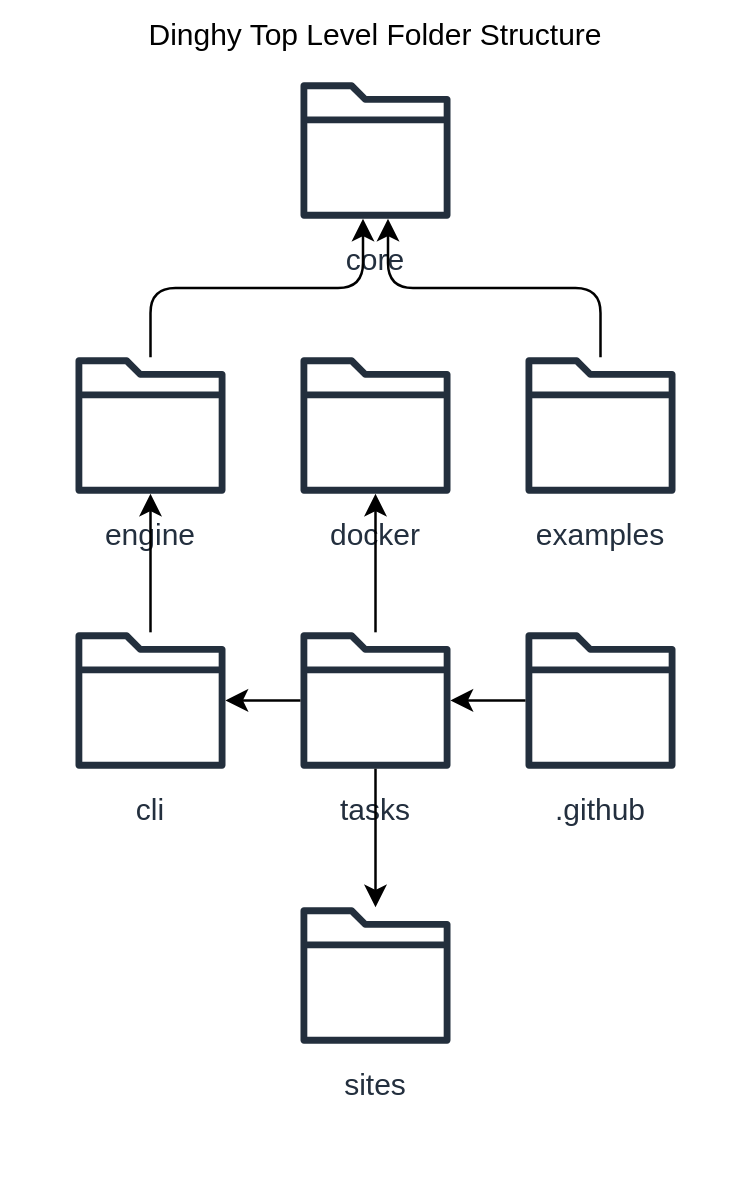
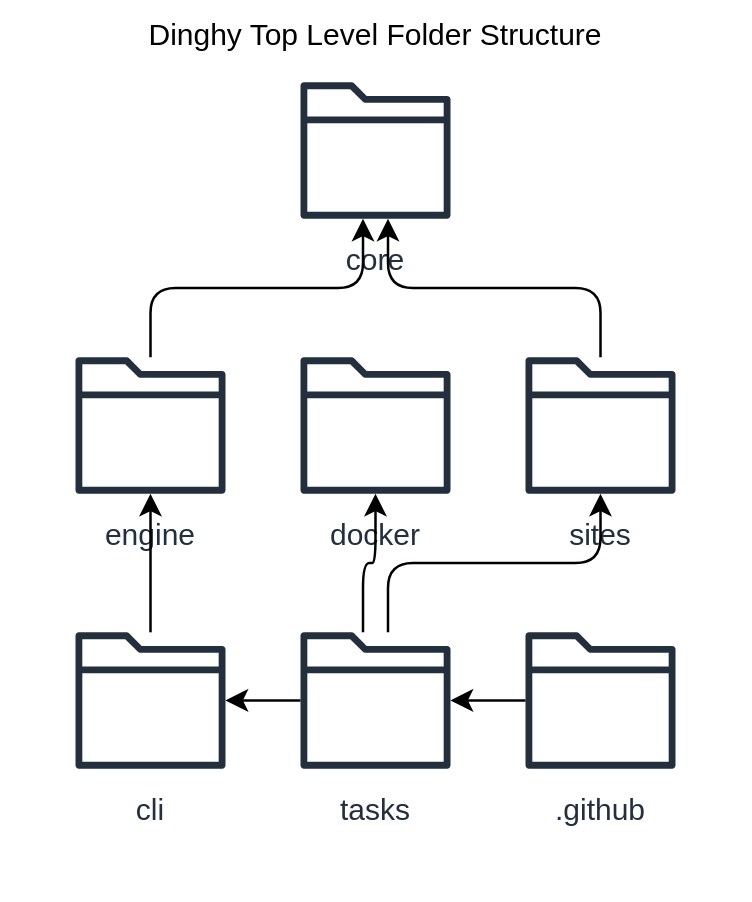
Use S3Bucket for CloudfrontSites

Changed region(s): [[0.0918, 0.0, 0.9176, 0.9313], [0.3976, 0.8381, 0.6117, 0.9313]]

diff --git a/core/tf-aws/src/composites/cloudfront-sites/CloudfrontSites.tsx b/core/tf-aws/src/composites/cloudfront-sites/CloudfrontSites.tsx
@@ -1,27 +1,14 @@
 import { OriginType, useCloudfrontSites } from './useCloudfrontSites.ts'
-import { existsSync } from '@std/fs/exists'
-import { walkSync } from '@std/fs/walk'
-import { contentType } from '@std/media-types'
-import {
-  containerAppHome,
-  deepResolve,
-  NodeProps,
-  Shape,
-  toId,
-} from '@dinghy/base-components'
+import { S3Bucket } from '../s3-bucket/S3Bucket.tsx'
+import { deepResolve, NodeProps, Shape, toId } from '@dinghy/base-components'
 import {
   AwsRoute53Record,
   DataAwsRoute53Zone,
   useAwsRoute53Zone,
 } from '@dinghy/tf-aws/serviceRoute53'
 import { CloudfrontSiteType } from './useCloudfrontSites.ts'
-import {
-  AwsS3Bucket,
-  AwsS3BucketLogging,
-  AwsS3BucketPolicy,
-  useAwsS3Bucket,
-} from '@dinghy/tf-aws/serviceS3'
-import { useGlobalLogBucket, useRegionalLogBucket } from '@dinghy/tf-aws'
+import { useAwsS3Bucket } from '@dinghy/tf-aws/serviceS3'
+import { useGlobalLogBucket } from '@dinghy/tf-aws'
 import {
   AwsCloudfrontDistribution,
   AwsCloudfrontFunction,
@@ -35,12 +22,6 @@ import {
   useAwsAcmCertificate,
 } from '@dinghy/tf-aws/serviceAcm'
 import { Text } from '@dinghy/diagrams/entitiesGeneral'
-import { AwsS3Object } from '../../services/s3/AwsS3Object.tsx'
-
-function getContentType(filePath: string): string {
-  const extension = filePath.split('.').pop()?.toLowerCase() || ''
-  return contentType(`.${extension}`) || 'application/octet-stream'
-}
 
 export function CloudfrontSites(
   { _components, ...props }: NodeProps,
@@ -48,7 +29,6 @@ export function CloudfrontSites(
   const sites = useCloudfrontSites(props.sites)
 
   function CloudfrontSite({ site }: { site: CloudfrontSiteType }) {
-    const { logBucket } = useRegionalLogBucket()
     const redirectFunctionId = `${toId(`${site.title}_redirect_function`)}`
 
     const domainNameZone = (name: string) => {
@@ -317,102 +297,41 @@ export function CloudfrontSites(
         const origins = site.origins
 
         const S3Origin = ({ origin }: { origin: OriginType }) => {
-          const originFiles =
-            `${containerAppHome}/s3-files/${origin.targetHost}`
-          const originFilesExists = existsSync(originFiles)
-          const Files = () => {
-            const files = []
-            for (
-              const entry of walkSync(originFiles, { includeDirs: false })
-            ) {
-              const target = entry.path.replace(originFiles, '')
-              files.push({
-                source: entry.path,
-                target,
-                contentType: origin.contentTypes[target] ||
-                  getContentType(target),
-              })
-            }
-
-            const { s3Bucket } = useAwsS3Bucket()
-            const S3FilesComponent = _components?.s3Files as typeof Shape ||
-              Shape
-            const S3ObjectComponent =
-              _components?.s3Object as typeof AwsS3Object || AwsS3Object
-            return (
-              <S3FilesComponent _direction='vertical'>
-                {files
-                  .sort((a, b) => a.target.localeCompare(b.target))
-                  .map((file) => (
-                    <S3ObjectComponent
-                      _id={toId(`${site.title}_${origin.name}_${file.target}`)}
-                      _title={file.target}
-                      bucket={origin.targetHost}
-                      key={file.target}
-                      __key={file.target}
-                      cache_control={origin.cacheControls[file.target] ||
-                        origin.cacheControlDefault}
-                      content_type={file.contentType}
-                      source={file.source}
-                      depends_on={() => [s3Bucket._terraformId]}
-                    />
-                  ))}
-              </S3FilesComponent>
-            )
-          }
-
           const { cloudfrontDistribution } = useAwsCloudfrontDistribution()
-          const S3OriginComponent =
-            _components?.s3Origin as typeof AwsS3Bucket || AwsS3Bucket
-          const S3OriginLoggingComponent =
-            _components?.s3OriginLogging as typeof AwsS3BucketLogging ||
-            AwsS3BucketLogging
-          const S3OriginPolicyComponent =
-            _components?.s3OriginPolicy as typeof AwsS3BucketPolicy ||
-            AwsS3BucketPolicy
+          const S3OriginComponent = _components?.s3Origin as typeof S3Bucket ||
+            S3Bucket
           return (
             <S3OriginComponent
               _id={toId(`${site.title}_${origin.name}_bucket`)}
               _title={`Origin Bucket: ${site.title} ${origin.name}`}
               bucket={origin.targetHost}
               _display='none'
-              _direction='vertical'
               _distributed
-            >
-              <S3OriginLoggingComponent
-                _id={toId(`${site.title}_${origin.name}_bucketlogging`)}
-                bucket={origin.targetHost}
-                target_bucket={logBucket.bucket}
-                target_prefix={`s3-access-log/${origin.targetHost}/`}
-              />
-
-              <S3OriginPolicyComponent
-                _id={toId(`${site.title}_${origin.name}_bucketpolicy`)}
-                bucket={origin.targetHost}
-                policy={() =>
-                  JSON.stringify(deepResolve({
-                    'Version': '2008-10-17',
-                    'Id': 'PolicyForCloudFrontPrivateContent',
-                    'Statement': [
-                      {
-                        'Sid': 'AllowCloudFrontServicePrincipal',
-                        'Effect': 'Allow',
-                        'Principal': {
-                          'Service': 'cloudfront.amazonaws.com',
-                        },
-                        'Action': 's3:GetObject',
-                        'Resource': `arn:aws:s3:::${origin.targetHost}/*`,
-                        'Condition': {
-                          'ArnLike': {
-                            'AWS:SourceArn': [cloudfrontDistribution.arn],
-                          },
+              loggingEnabled
+              bucketPolicy={() =>
+                JSON.stringify(deepResolve({
+                  'Version': '2008-10-17',
+                  'Id': 'PolicyForCloudFrontPrivateContent',
+                  'Statement': [
+                    {
+                      'Sid': 'AllowCloudFrontServicePrincipal',
+                      'Effect': 'Allow',
+                      'Principal': {
+                        'Service': 'cloudfront.amazonaws.com',
+                      },
+                      'Action': 's3:GetObject',
+                      'Resource': `arn:aws:s3:::${origin.targetHost}/*`,
+                      'Condition': {
+                        'ArnLike': {
+                          'AWS:SourceArn': [cloudfrontDistribution.arn],
                         },
                       },
-                    ],
-                  }))}
-              />
-              {originFilesExists && <Files />}
-            </S3OriginComponent>
+                    },
+                  ],
+                }))}
+              _components={_components}
+              {...origin}
+            />
           )
         }
 

diff --git a/core/tf-aws/src/composites/s3-bucket/S3Bucket.tsx b/core/tf-aws/src/composites/s3-bucket/S3Bucket.tsx
@@ -1,8 +1,13 @@
 import {
+  containerAppHome,
+  deepMerge,
   deepResolve,
+  getRenderOptions,
   type NodeProps,
   ResolvableBooleanSchema,
   ResolvableStringSchema,
+  Shape,
+  toId,
 } from '@dinghy/base-components'
 import z from 'zod'
 import {
@@ -12,12 +17,29 @@ import {
 } from '../../services/s3/AwsS3Bucket.tsx'
 import { AwsS3BucketVersioning } from '../../services/s3/AwsS3BucketVersioning.tsx'
 import { AwsS3BucketLogging } from '../../services/s3/AwsS3BucketLogging.tsx'
+import { existsSync } from '@std/fs/exists'
+import { walkSync } from '@std/fs/walk'
+import { AwsS3BucketPolicy, AwsS3Object } from '@dinghy/tf-aws/serviceS3'
+import { contentType } from '@std/media-types'
+import { useRegionalLogBucket } from '@dinghy/tf-aws'
+
+function getContentType(filePath: string): string {
+  const extension = filePath.split('.').pop()?.toLowerCase() || ''
+  return contentType(`.${extension}`) || 'application/octet-stream'
+}
 
 export const InputSchema = z.object({
+  bucket: ResolvableStringSchema,
   versioningEnabled: ResolvableBooleanSchema.default(false),
   loggingEnabled: ResolvableBooleanSchema.default(false),
   logBucket: ResolvableStringSchema.optional(),
   logPrefix: ResolvableStringSchema.optional(),
+  bucketPolicy: ResolvableStringSchema.optional(),
+  contentTypes: z.record(z.string(), z.string()).default({}),
+  cacheControls: z.record(z.string(), z.string()).default({}),
+  cacheControlDefault: z.string().default(
+    'max-age=3600, public, must-revalidate',
+  ),
 }).extend({ ...AwsS3BucketInputSchema.shape })
 
 export type InputProps =
@@ -25,10 +47,12 @@ export type InputProps =
   & NodeProps
 
 export function S3Bucket(
-  { _components, bucket, children, ...props }: Partial<InputProps>,
+  { _components, children, ...props }: Partial<InputProps>,
 ) {
-  const bucketConfig = InputSchema.parse(props)
-
+  const inputProps = deepMerge({}, getRenderOptions().s3Bucket || {})
+  deepMerge(inputProps, props.s3Bucket || {})
+  deepMerge(inputProps, props)
+  const bucketConfig = InputSchema.loose().parse(inputProps)
   const BucketVersioning = () => {
     const { s3Bucket } = useAwsS3Bucket()
     const BucketVersioningComponent: any =
@@ -48,10 +72,11 @@ export function S3Bucket(
     const BucketLoggingComponent: any =
       _components?.logging as typeof AwsS3BucketLogging ||
       AwsS3BucketLogging
+    const { logBucket } = useRegionalLogBucket()
     return (
       <BucketLoggingComponent
         bucket={s3Bucket.bucket}
-        target_bucket={bucketConfig.logBucket || bucketConfig.bucket}
+        target_bucket={bucketConfig.logBucket || logBucket.bucket}
         target_prefix={() => `s3-access-log/${deepResolve(s3Bucket.bucket)}/`}
         _id={() => `${deepResolve(s3Bucket._id)}_logging`}
         depends_on={() => [s3Bucket._terraformId]}
@@ -59,16 +84,78 @@ export function S3Bucket(
     )
   }
 
+  const BucketPolicy = () => {
+    const { s3Bucket } = useAwsS3Bucket()
+    const S3BucketPolicyComponent =
+      _components?.s3BucketPolicy as typeof AwsS3BucketPolicy ||
+      AwsS3BucketPolicy
+    return (
+      <S3BucketPolicyComponent
+        depends_on={() => [s3Bucket._terraformId]}
+        _id={() => `${deepResolve(s3Bucket._id)}_policy`}
+        bucket={s3Bucket.bucket}
+        policy={bucketConfig.bucketPolicy}
+      />
+    )
+  }
+
+  const s3Files = `${containerAppHome}/s3-files/${bucketConfig.bucket}`
+  const s3FilesExists = typeof bucketConfig.bucket === 'string' &&
+    existsSync(s3Files)
+  const Files = () => {
+    const files = []
+    for (
+      const entry of walkSync(s3Files, { includeDirs: false })
+    ) {
+      const target = entry.path.replace(s3Files, '')
+      files.push({
+        source: entry.path,
+        target,
+        contentType: bucketConfig.contentTypes[target] ||
+          getContentType(target),
+      })
+    }
+
+    const { s3Bucket } = useAwsS3Bucket()
+    const S3FilesComponent = _components?.s3Files as typeof Shape ||
+      Shape
+    const S3ObjectComponent = _components?.s3Object as typeof AwsS3Object ||
+      AwsS3Object
+    return (
+      <S3FilesComponent _direction='vertical'>
+        {files
+          .sort((a, b) => a.target.localeCompare(b.target))
+          .map((file) => (
+            <S3ObjectComponent
+              _id={toId(`${bucketConfig.bucket}_${file.target}`)}
+              _title={file.target}
+              bucket={bucketConfig.bucket}
+              key={file.target}
+              __key={file.target}
+              cache_control={bucketConfig.cacheControls[file.target] ||
+                bucketConfig.cacheControlDefault}
+              content_type={file.contentType}
+              source={file.source}
+              depends_on={() => [s3Bucket._terraformId]}
+            />
+          ))}
+      </S3FilesComponent>
+    )
+  }
+
   const BucketComponent: any = _components?.bucket as typeof AwsS3Bucket ||
     AwsS3Bucket
   return (
     <BucketComponent
-      bucket={bucket}
-      _title={bucket}
+      _title={bucketConfig.bucket}
+      _direction='vertical'
+      {...bucketConfig}
       {...props}
     >
       {bucketConfig.versioningEnabled && <BucketVersioning />}
       {bucketConfig.loggingEnabled && <BucketLogging />}
+      {bucketConfig.bucketPolicy && <BucketPolicy />}
+      {s3FilesExists && <Files />}
       {children}
     </BucketComponent>
   )

diff --git a/core/tf-aws/src/composites/cloudfront-sites/useCloudfrontSites.ts b/core/tf-aws/src/composites/cloudfront-sites/useCloudfrontSites.ts
@@ -21,18 +21,13 @@ const OriginSchema = z.object({
   customHeaders: z.record(z.string(), z.string()).optional(),
   pathPattern: z.string().default('*'),
   cacheBehavior: z.record(z.string(), z.any()).optional(),
-  contentTypes: z.record(z.string(), z.string()).default({}),
-  cacheControls: z.record(z.string(), z.string()).default({}),
-  cacheControlDefault: z.string().default(
-    'max-age=3600, public, must-revalidate',
-  ),
 })
 
 const CloudfrontSiteSchema = z.object({
   title: z.string().optional().transform((value: string | undefined) =>
     value as string
   ),
-  origins: z.record(z.string(), OriginSchema),
+  origins: z.record(z.string(), OriginSchema.loose()),
   alternativeNames: z.string().array().optional().transform((
     value: string[] | undefined,
   ) => value as string[]),

diff --git a/sites/www/src/docs/community/folder-structure.tsx b/sites/www/src/docs/community/folder-structure.tsx
@@ -4,11 +4,11 @@ import { Folder } from '@dinghy/diagrams/entitiesAwsGeneralResources'
 export default function Stack() {
   return (
     <Dinghy>
-      <Folder _dependsBy={['engine', 'examples']}>core</Folder>
+      <Folder _dependsBy={['engine', 'sites']}>core</Folder>
       <Columns>
         <Folder>engine</Folder>
         <Folder>docker</Folder>
-        <Folder>examples</Folder>
+        <Folder>sites</Folder>
       </Columns>
       <Columns>
         <Folder _dependsOn='engine'>cli</Folder>
@@ -19,9 +19,6 @@ export default function Stack() {
           tasks
         </Folder>
         <Folder>.github</Folder>
-      </Columns>
-      <Columns>
-        <Folder>sites</Folder>
       </Columns>
     </Dinghy>
   )
